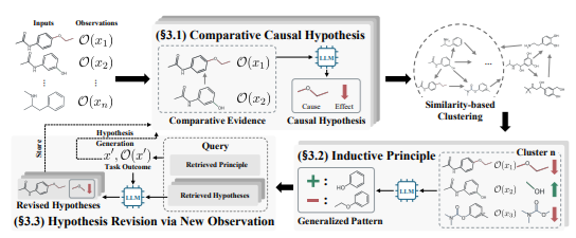
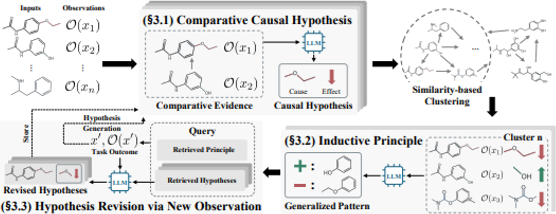
figure size revised

diff --git a/assets/css/publications-no-dark-mode.css b/assets/css/publications-no-dark-mode.css
@@ -72,4 +72,4 @@ blockquote { background: var(--global-bg-color); border-left: 2px solid var(--gl
 
 .publications ol.bibliography li div.abstract.hidden.open { border-color: var(--global-text-color); }
 
-.publications ol.bibliography li .teaser { display: block; border-radius: 8px; box-shadow: 3px 3px 6px #888; max-width: 100%; width: 270px; height: auto; margin-top: 5px; margin-left: 5px; margin-bottom: 5px; }
+.publications ol.bibliography li .teaser { display: block; border-radius: 8px; box-shadow: 3px 3px 6px #888; max-width: 100%; width: 300px; height: auto; margin-top: 5px; margin-left: 5px; margin-bottom: 5px; }

diff --git a/assets/css/publications.css b/assets/css/publications.css
@@ -79,4 +79,4 @@ blockquote { background: var(--global-bg-color); border-left: 2px solid var(--gl
 
 .publications ol.bibliography li div.abstract.hidden.open { border-color: var(--global-text-color); }
 
-.publications ol.bibliography li .teaser { display: block; border-radius: 8px; box-shadow: 3px 3px 6px #888; max-width: 100%; width: 270px; height: auto; margin-top: 5px; margin-left: 5px; margin-bottom: 5px; }
+.publications ol.bibliography li .teaser { display: block; border-radius: 8px; box-shadow: 3px 3px 6px #888; max-width: 100%; width: 300px; height: auto; margin-top: 5px; margin-left: 5px; margin-bottom: 5px; }
